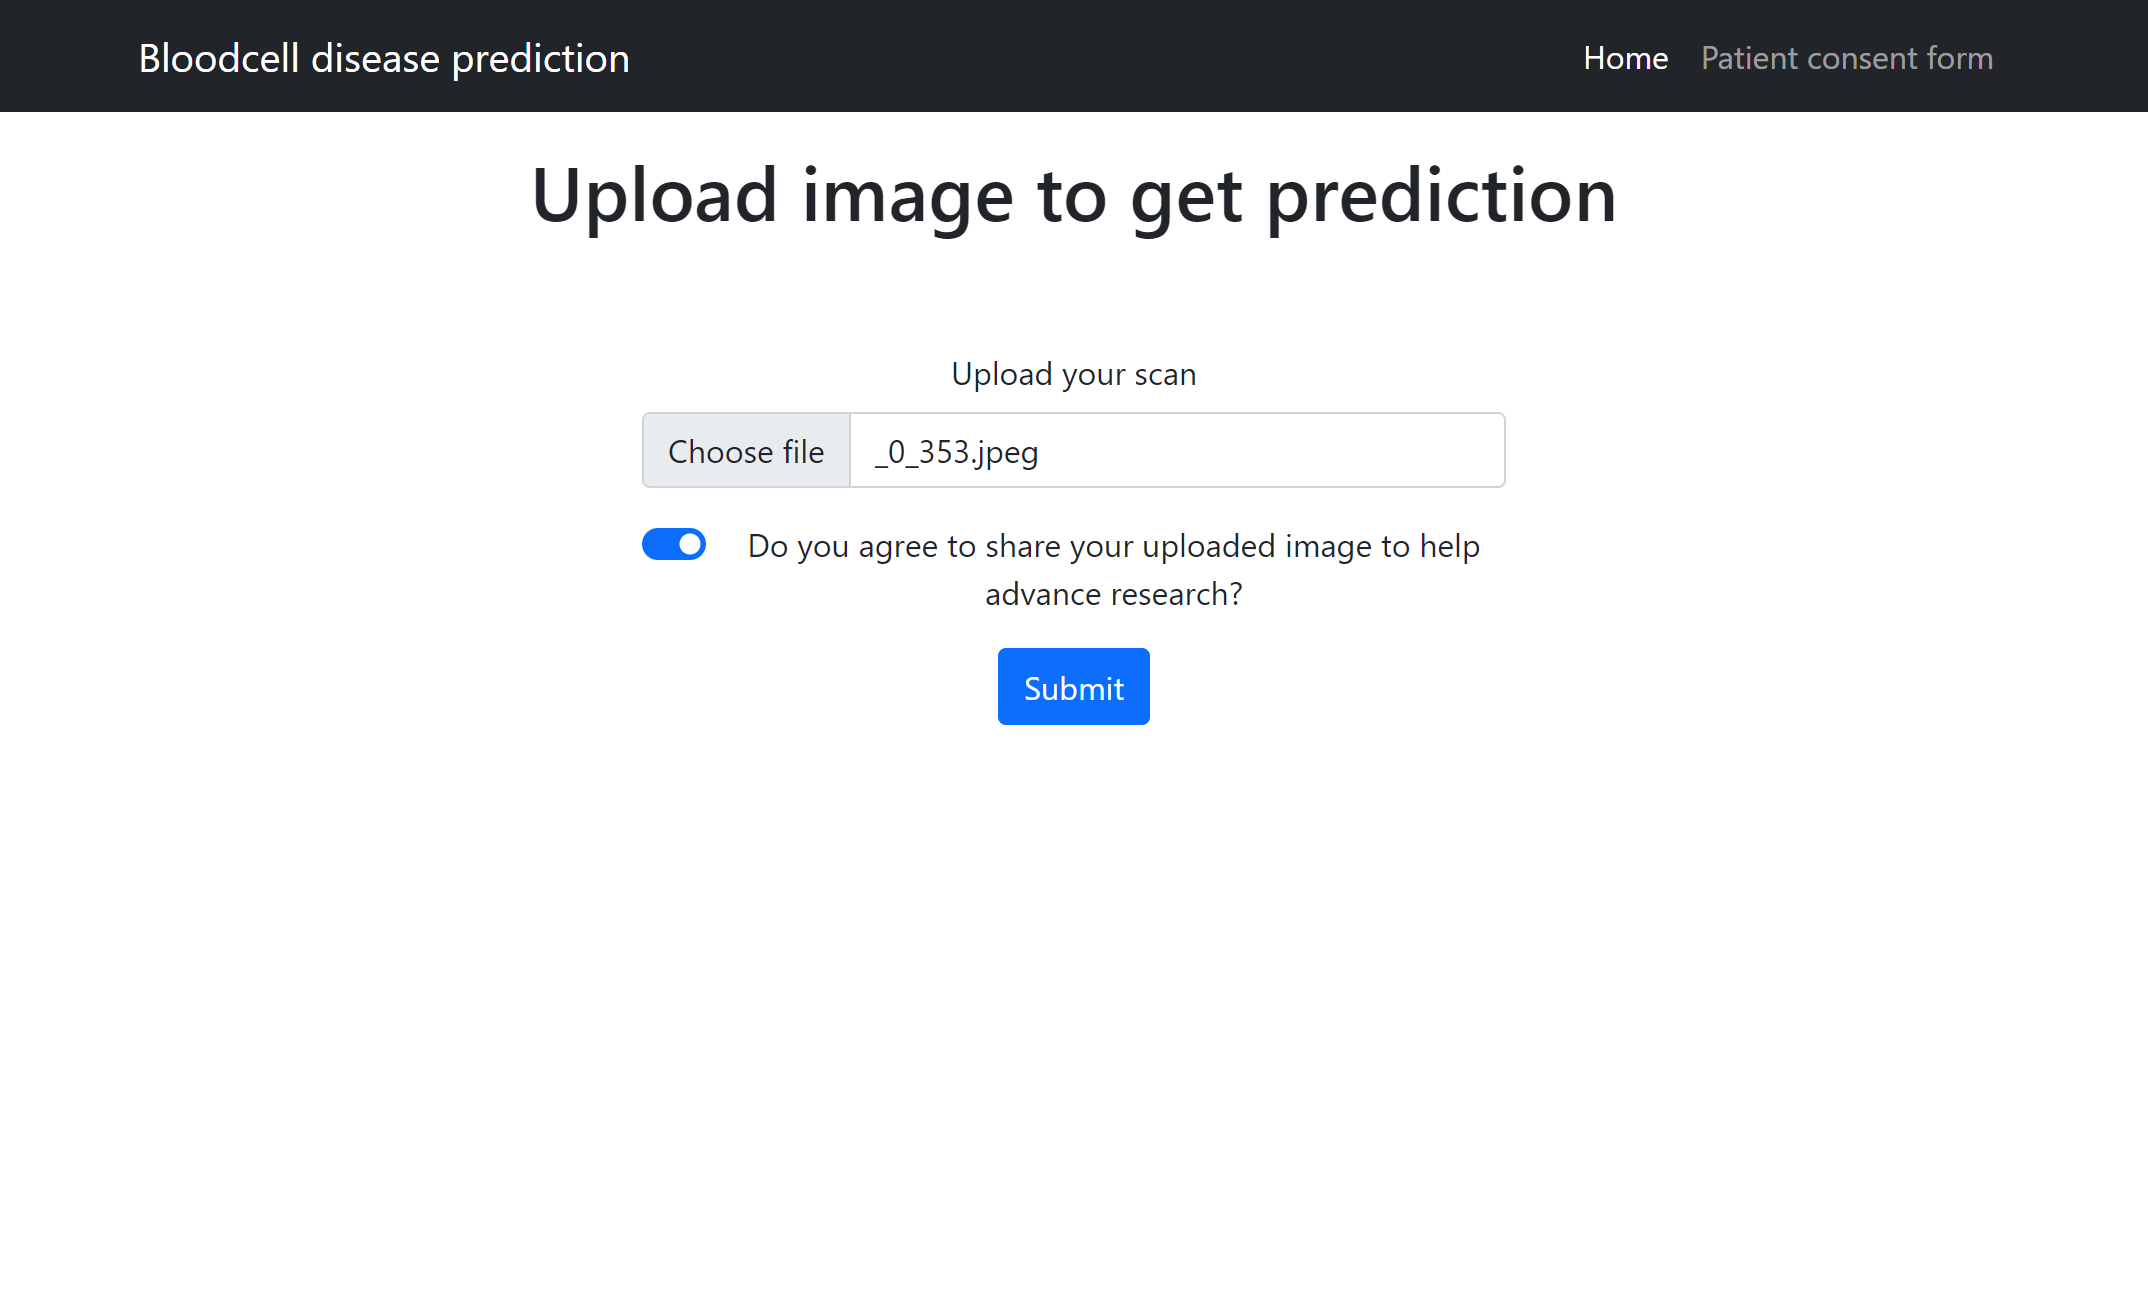
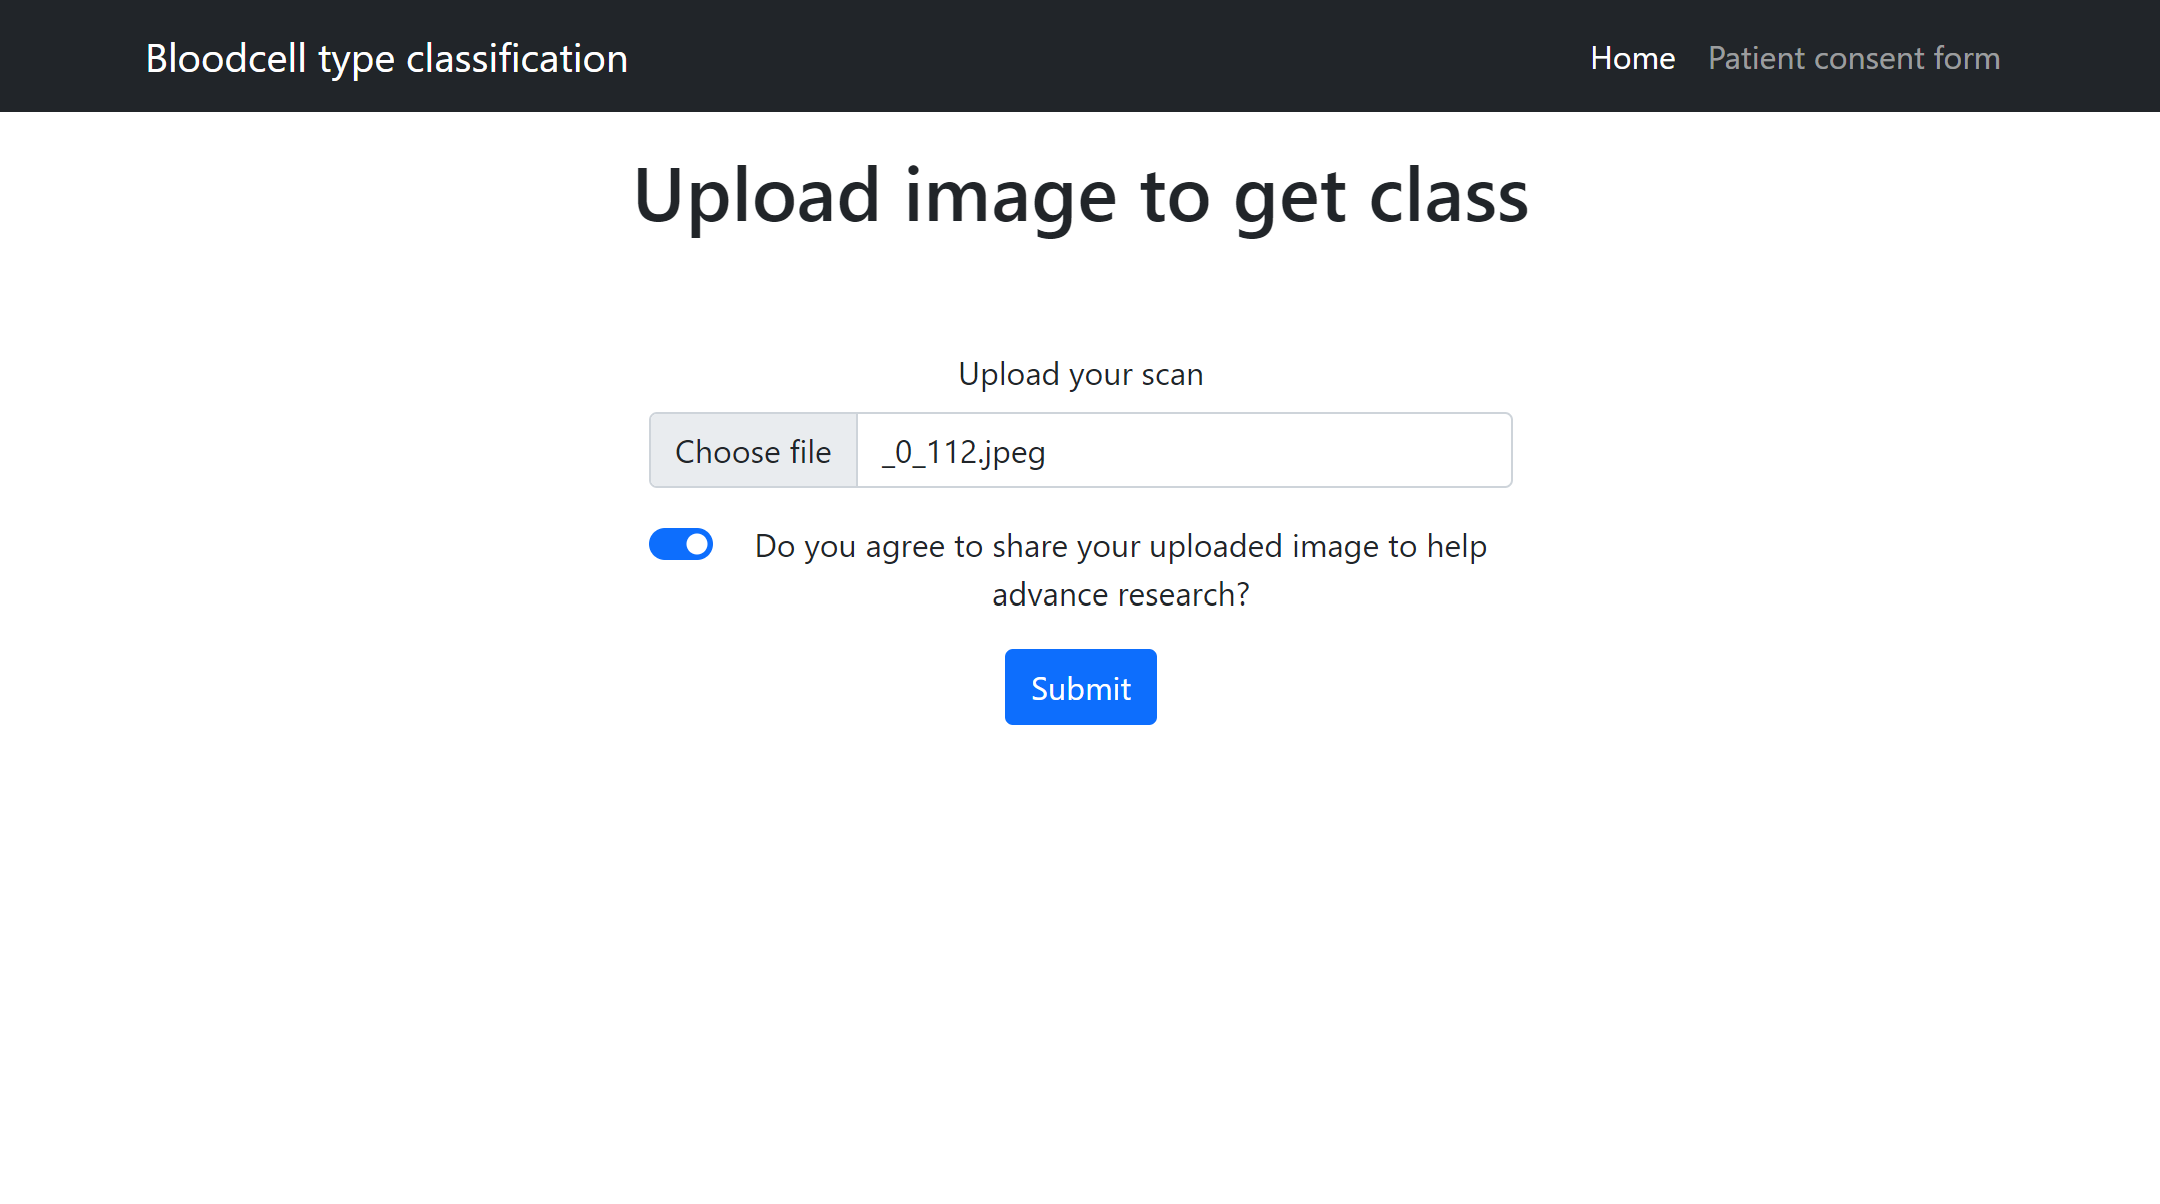
Terminology switch

diff --git a/websrv/static/index.html b/websrv/static/index.html
@@ -11,7 +11,7 @@
     <!-- Responsive navbar-->
     <nav class="navbar navbar-expand-lg navbar-dark bg-dark">
       <div class="container">
-        <a class="navbar-brand" href="#">Bloodcell disease prediction</a>
+        <a class="navbar-brand" href="#">Bloodcell type classification</a>
         <button
           class="navbar-toggler"
           type="button"
@@ -36,7 +36,7 @@
     <!-- Page content-->
     <div class="container-lg">
       <div class="row mt-3">
-        <h1 class="text-center">Upload image to get prediction</h1>
+        <h1 class="text-center">Upload image to get class</h1>
       </div>
       <div class="row justify-content-center">
         <div class="col-xl-6 col-lg-6 col-md-8 col-sm-10 mx-auto text-center form p-4">
